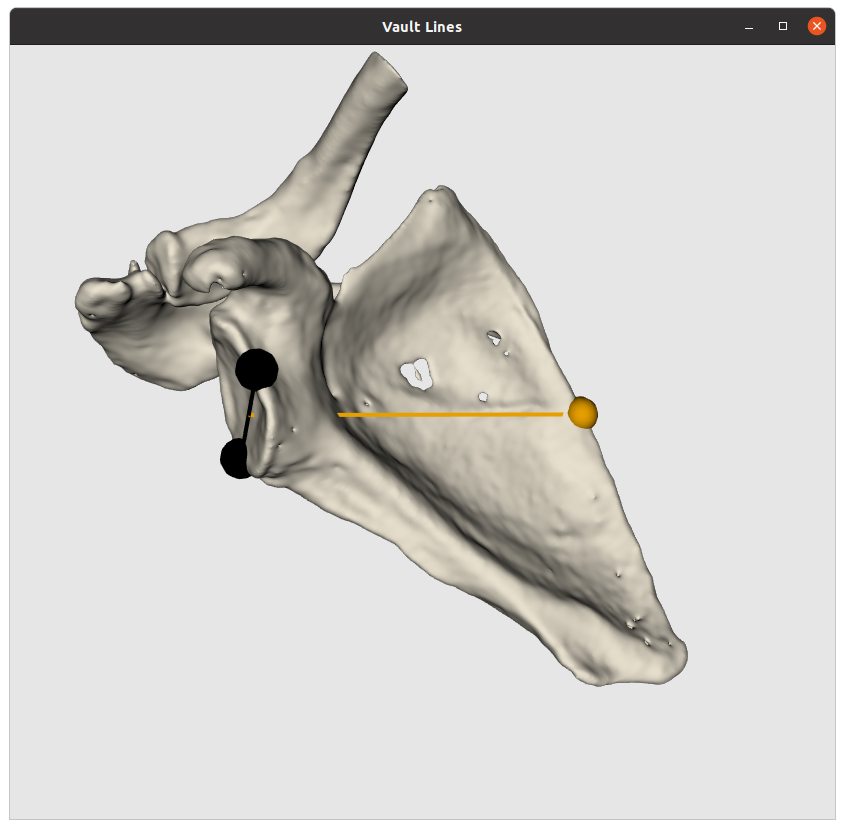
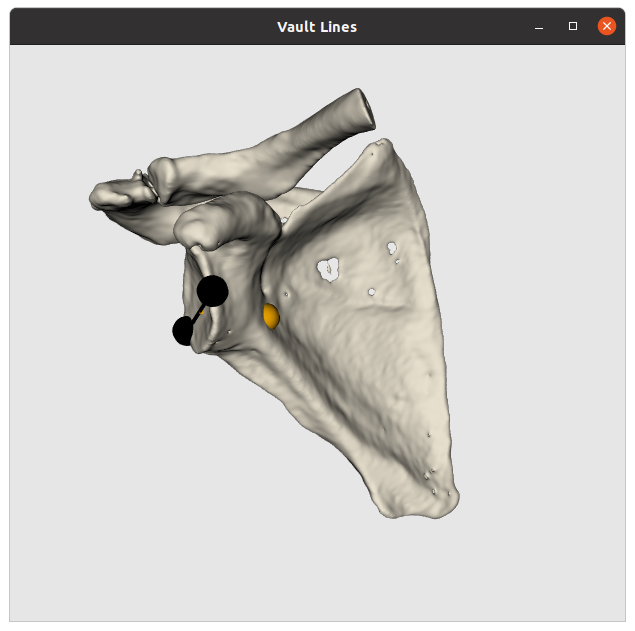
Fixed vault visualisation

Changed region(s): [[0.0, 0.0, 1.0, 0.9937]]

diff --git a/methods.tex b/methods.tex
@@ -8,7 +8,7 @@ input a file describing the anatomical position of the required landmark points.
 
 \begin{figure}
         \begin{center}
-                \includegraphics[width=0.85\linewidth]{figures/workflow.png}
+                \includegraphics[width=0.98\linewidth]{figures/workflow.png}
                         \caption{\label{fig:workflow}A workflow diagram describing the current workflow. Relevant landmarks 
 			are currently identified using 3DSlicer and passed to \sksglenoid via the command line. For the corrected Friedman method the points are manually identified 
 			a second time after identification of the new axial slice.}
@@ -49,10 +49,10 @@ The selection of the different landmark points for each method and calculations 
 			\caption{\label{fig:visvault2D}Vault Method Axial Slice}
 		\end{subfigure}	
 	\end{center}
-	\caption{\label{fig:visualisations}Visualisations of the 2 plane, Friedman and Vault methods and of new axial slice plane used for corrected Friedman method. Additional visualisations of the axial slices of hte Friedman and vault methods to show point selection. By default uses the colour blind friendly palette defined by Wong\cite{bang2011}}
+	\caption{\label{fig:visualisations}Visualisations of the 2 plane, Friedman and Vault methods and of new axial slice plane used for corrected Friedman method. Additional visualisations of the axial slices of the Friedman and vault methods to show point selection. By default, \sksglenoid uses the colour blind friendly palette defined by Wong\cite{bang2011}}
 \end{figure}
 
-For the Friedman and vault method both 3 points were chosen to form 2 lines. Both require the same two points at the edges of the glenoid fossa anteriorly and posteriorly (black points on \ref{fig:visfried} and \ref{fig:visvault}). For the Friedman method the third point was selected at the tip of the scapula, while for the vault method it was at the tip of the scapular vault. The point selection is done on a 2D axial slice (see \ref{fig:visfried2D} and \ref{fig:visvault2D}). Therefore, slice choice is important and in this case was selected as the axial slice at which the coracoid process is no longer visible. The Friedman line was formed with the medial point on the scapula and the midpoint between the glenoid fossa points, while the vault line was formed with the tip of the scapular vault and the same midpoint. The second line was formed across the glenoid fossa in both methods. The version was then calculated as the angle between the two lines. 
+For the Friedman and vault method 3 points were chosen to form 2 lines. Both require the same two points at the edges of the glenoid fossa anteriorly and posteriorly (black points on \ref{fig:visfried} and \ref{fig:visvault}). For the Friedman method the third point was selected at the tip of the scapula, while for the vault method it was at the tip of the scapular vault. The point selection is done on a 2D axial slice (see \ref{fig:visfried2D} and \ref{fig:visvault2D}). Therefore, slice choice is important and in this case was selected as the axial slice at which the coracoid process is no longer visible. The Friedman line was formed with the medial point on the scapula and the midpoint between the glenoid fossa points, while the vault line was formed with the tip of the scapular vault and the same midpoint. The second line was formed across the glenoid fossa in both methods. The version was then calculated as the angle between the two lines. 
 
 The corrected Friedman method requires the same anatomical landmark points as the conventional Friedman method, but on a corrected axial plane. This plane (blue plane in \ref{fig:visplanes}) should be perpendicular to the scapular plane which is formed by the same 3 points as the scapular plane for the two-plane method (black plane in \ref{fig:visplanes}). The new transverse scapular plane (blue plane in \ref{fig:viscorrfried}) was used to generate a new 2D image slice on which the same conventional Friedman landmark points were selected.
 
@@ -62,7 +62,7 @@ The corrected Friedman method requires the same anatomical landmark points as th
 %\input|"wget https://glenoidplanefitting.readthedocs.io/en/latest/_images/graphviz-f4a0d46f29de525cf2512540ebd2f3e3f3356594.png"
 \sksglenoid is built on top of the \sksurgery \cite{PMID:32436132} libraries which enabled
 rapid development and future deployment into a clinically useable application. 
-Development was kick started using the \sksurgery Python Template \cite{doel_tom_2022_5879146} enabling the bulk of the development and testing to be performed during a 10 week summer internship with minimal prior experience of Python or software development. \sksurgery also includes template libraries for C++ projects \cite{dowrick2021cmakecatchtemplate}.
+Development was kick started using the \sksurgery Python Template \cite{doel_tom_2022_5879146} enabling the bulk of the development and testing to be performed during a 10 week summer internship with minimal prior experience of Python or software development. Use of the Python Template encourages good software development practice \cite{schroeder2004software} from the outset of the development process. \sksurgery also includes template libraries for C++ projects \cite{dowrick2021cmakecatchtemplate}.
 
 \sksurgery is made up of multiple Python libraries that can be assembled into
 varied applications for research in image guided surgery. Some current examples 
